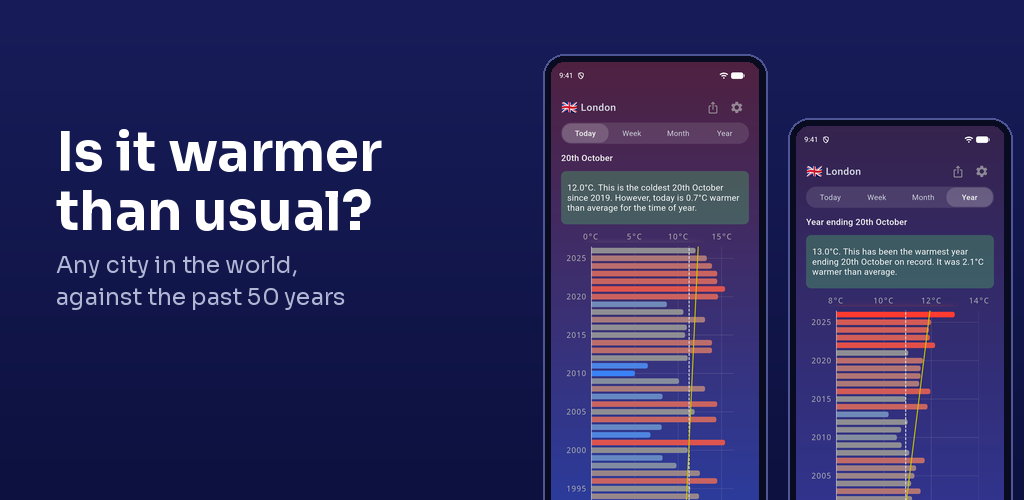
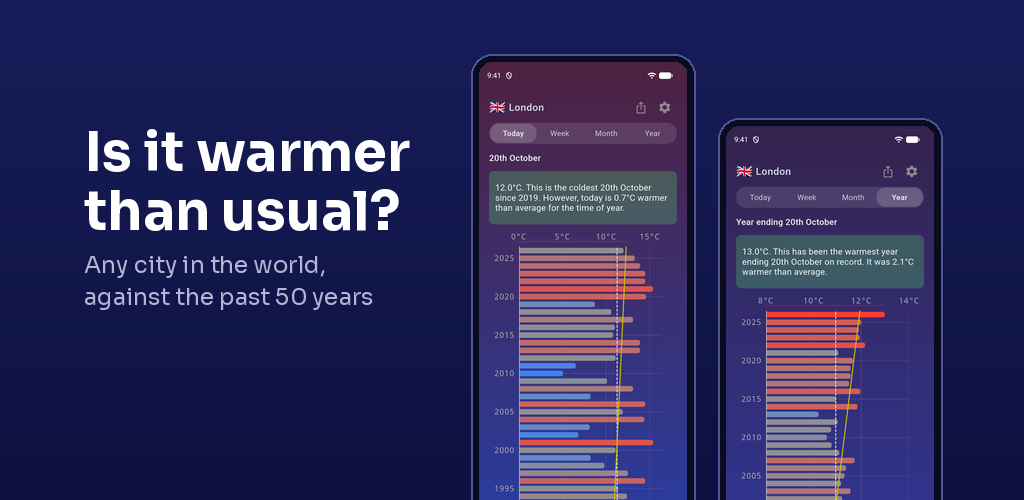
Keep Play feature graphic content inside the 16:9 safe zone
Play listing cards show the 1024x500 feature graphic in a 16:9 box with
cover-fit, trimming ~67px from each side. The headline and right-hand
phone were being clipped. Move the text and both phones into x=84..940,
and put the safe-zone bounds in compose_play_graphics.py so regenerating
the graphic keeps the layout.

diff --git a/scripts/compose_play_graphics.py b/scripts/compose_play_graphics.py
@@ -31,6 +31,16 @@ LOGO_X = 204  # puts the bars where the iOS app icon has them
 
 W, H = 1024, 500
 
+# Play's listing cards show the graphic in a 16:9 box with cover-fit, so only the
+# central H*16/9 (~889px) of the 1024 width is guaranteed visible (~67px trimmed each
+# side). Keep all text and phones inside this safe zone, with a little slack.
+SAFE_LEFT = 84
+SAFE_RIGHT = W - SAFE_LEFT
+PHONE_W = 220
+PHONE_GAP = 27
+RIGHT_PHONE_X = SAFE_RIGHT - PHONE_W
+LEFT_PHONE_X = RIGHT_PHONE_X - PHONE_GAP - PHONE_W
+
 
 def icons(out: Path) -> None:
     canvas = Image.new("RGBA", (1024, 1024), ICON_BG + (255,))
@@ -60,8 +70,8 @@ def feature_graphic(raw_dir: Path, out: Path) -> None:
     canvas = gradient(W, H)
     draw = ImageDraw.Draw(canvas)
 
-    margin = 56
-    text_w = 470
+    margin = SAFE_LEFT
+    text_w = LEFT_PHONE_X - SAFE_LEFT - 40
     head_font = font(54, 700)
     sub_font = font(23, 400)
     y = 118
@@ -73,9 +83,8 @@ def feature_graphic(raw_dir: Path, out: Path) -> None:
         draw.text((margin, y), line, font=sub_font, fill=GREY)
         y += int(sub_font.size * 1.4)
 
-    phone_w = 220
-    phone(canvas, raw_dir / "13-year.png", 790, 120, phone_w)
-    phone(canvas, raw_dir / "10-today.png", 545, 56, phone_w)
+    phone(canvas, raw_dir / "13-year.png", RIGHT_PHONE_X, 120, PHONE_W)
+    phone(canvas, raw_dir / "10-today.png", LEFT_PHONE_X, 56, PHONE_W)
 
     canvas.save(out / "feature-graphic-1024x500.png", optimize=True)
 

diff --git a/docs/play-listing-draft.md b/docs/play-listing-draft.md
@@ -56,4 +56,4 @@ Weather data by Open-Meteo.com (CC BY 4.0).
 In `assets/promos/png/1.4/android-play/`, made by `scripts/compose_play_graphics.py`:
 
 - `icon-512.png`: 512×512 32-bit PNG, full square (Play applies the mask). `assets/logo.png` (the multicoloured bars) on the navy icon background, laid out like the iOS app icon.
-- `feature-graphic-1024x500.png`: headline plus the Today and Year views.
+- `feature-graphic-1024x500.png`: headline plus the Today and Year views. Play's listing cards show it in a 16:9 box (cover-fit), trimming ~67px off each side, so keep text and phones within x=84..940.
